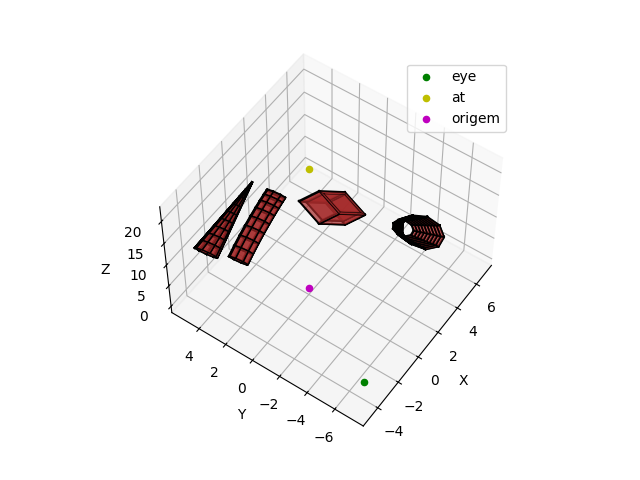
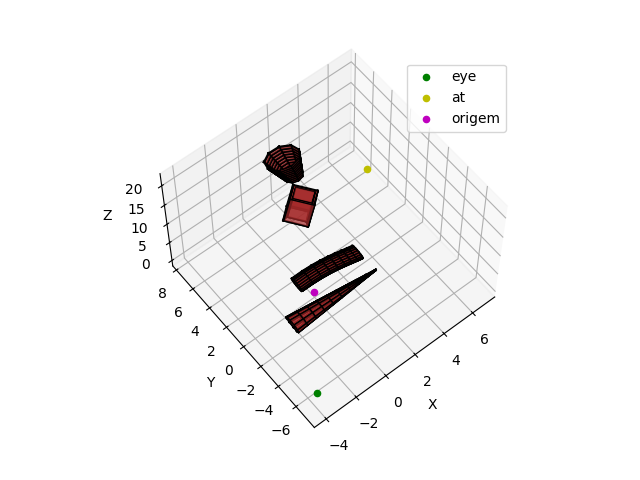
new images

diff --git a/utils/utils.py b/utils/utils.py
@@ -11,12 +11,17 @@ def calcular_vetores_aux(at, eye):
   N = at - eye
   N = N / np.linalg.norm(N)  
   aux = np.array([0, 1, 0])
-  U = np.cross(aux, N)
-  U = U / np.linalg.norm(U) 
-  V = np.cross(U, N)
-  V = V / np.linalg.norm(V)
+  # V = aux - (np.dot(aux,N) /np.dot(N,N))
+  # V = np.cross(aux, N)
+  V = aux - projecao(aux, N)
+  V = V / np.linalg.norm(V) 
+  U = np.cross(V, N)
+  U = U / np.linalg.norm(U)
 
   return U, V, N
+
+def projecao(a, b):
+  return np.dot((np.dot(a, b) / np.dot(b, b)), b)
   
 def create_figure() -> Axes:
   fig = plt.figure()

diff --git a/cone.py b/cone.py
@@ -94,7 +94,6 @@ if __name__ == "__main__":
     raio = 1.0  # Define o raio do cone
     altura = 2 * raio  # Define a altura do cone como o dobro do raio
     num_camadas = 10  # Define o número de camadas para a discretização do cone
-    ponto_inicial_cone = [0, 0, 0]  # Define o ponto inicial do cone
 
     cone = Cone(raio, altura, num_camadas)
     # quantidade de pontos = num_camadas^2 

diff --git a/q4.py b/q4.py
@@ -4,7 +4,7 @@ import utils.utils as util
  
 if __name__ == "__main__":
     
-    cone, cano, tronco_cone, caixa, at, eye = q3.main()
+    cone, cano, tronco_cone, caixa, eye, at = q3.main()
     
     tronco_cone.transformacao_perspectiva(at=at, eye=eye)
     cano.transformacao_perspectiva(at=at, eye=eye)
